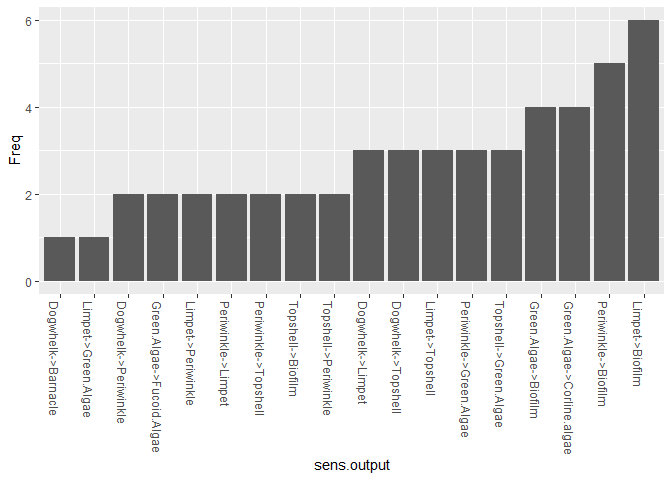
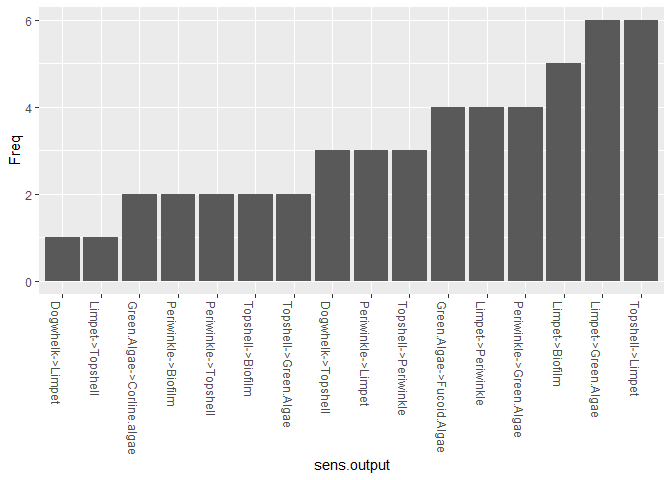
May 2024

diff --git a/README.md b/README.md
@@ -518,24 +518,22 @@ bbn.sensitivity(bbn.model = my_BBN, boot_max = 100, 'Limpet', 'Green Algae')
 <img src="man/figures/README-unnamed-chunk-8-1.png" width="100%" />
 
     #>                   sens.output Freq
-    #> 1          Dogwhelk->Barnacle    1
-    #> 2         Limpet->Green.Algae    1
-    #> 3        Dogwhelk->Periwinkle    2
-    #> 4   Green.Algae->Fucoid.Algae    2
-    #> 5          Limpet->Periwinkle    2
-    #> 6          Periwinkle->Limpet    2
-    #> 7        Periwinkle->Topshell    2
-    #> 8           Topshell->Biofilm    2
-    #> 9        Topshell->Periwinkle    2
-    #> 10           Dogwhelk->Limpet    3
-    #> 11         Dogwhelk->Topshell    3
-    #> 12           Limpet->Topshell    3
-    #> 13    Periwinkle->Green.Algae    3
-    #> 14      Topshell->Green.Algae    3
-    #> 15       Green.Algae->Biofilm    4
-    #> 16 Green.Algae->Corline.algae    4
-    #> 17        Periwinkle->Biofilm    5
-    #> 18            Limpet->Biofilm    6
+    #> 1            Dogwhelk->Limpet    1
+    #> 2            Limpet->Topshell    1
+    #> 3  Green.Algae->Corline.algae    2
+    #> 4         Periwinkle->Biofilm    2
+    #> 5        Periwinkle->Topshell    2
+    #> 6           Topshell->Biofilm    2
+    #> 7       Topshell->Green.Algae    2
+    #> 8          Dogwhelk->Topshell    3
+    #> 9          Periwinkle->Limpet    3
+    #> 10       Topshell->Periwinkle    3
+    #> 11  Green.Algae->Fucoid.Algae    4
+    #> 12         Limpet->Periwinkle    4
+    #> 13    Periwinkle->Green.Algae    4
+    #> 14            Limpet->Biofilm    5
+    #> 15        Limpet->Green.Algae    6
+    #> 16           Topshell->Limpet    6
 
 The function works by bootstrapping with multiple changes to prior
 values and interaction strengths in the network. The frequency shows the
@@ -661,4 +659,4 @@ hesitate to cite the package as an acknowledgement for the time spent in
 writing the package and this tutorial. Stafford R, Dominguez Almela V
 (2024). BBNet: Create simple predictive models in ecology, conservation
 and environmental policy based on Bayesian belief networks. R package
-version 0.1.0, <https://github.com/vda1r22/bbnet>.
+version 1.0, <https://github.com/vda1r22/bbnet>.
